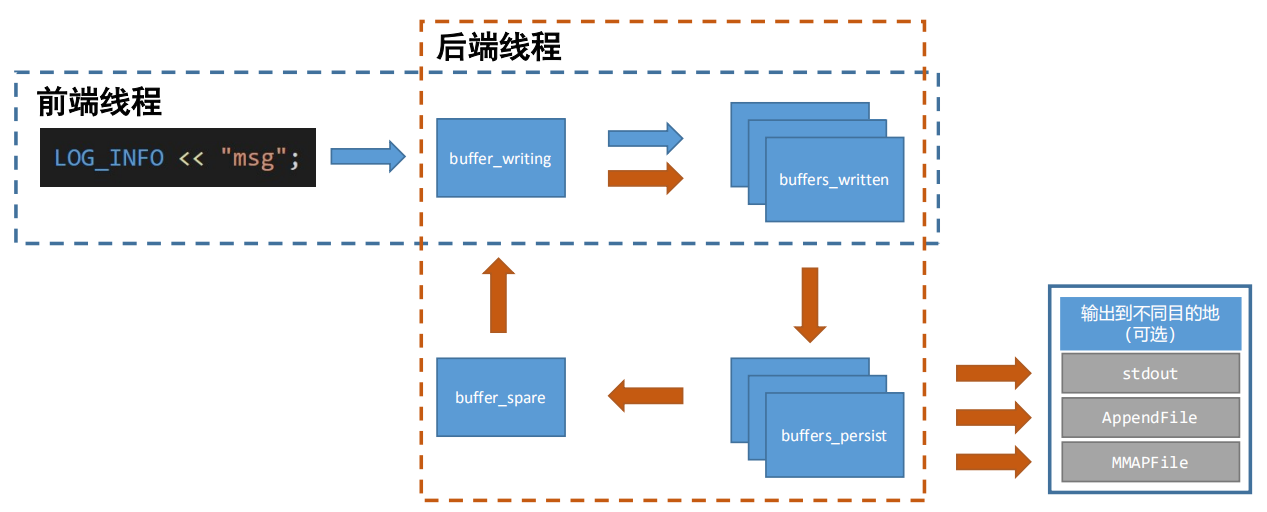
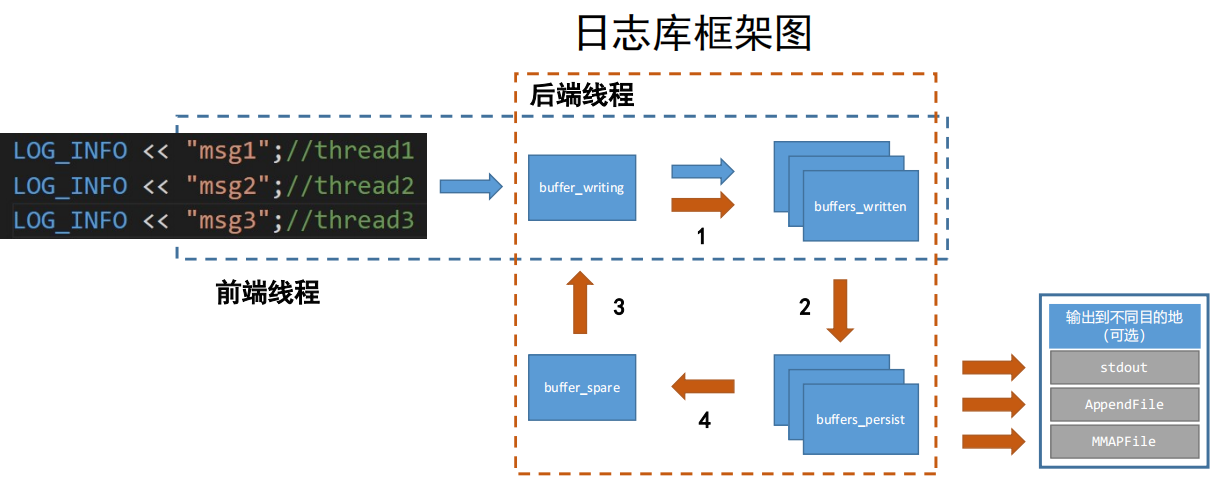
fix README.md

Changed region(s): [[0.0, 0.0309, 0.9984, 0.9897], [0.3432, 0.9588, 0.4992, 0.9897], [0.312, 0.6495, 0.3432, 0.6804]]

diff --git a/README.md b/README.md
@@ -18,9 +18,12 @@ sudo ./build.sh
 ```
 具体可参考`example/`中的测试文件
 
+
+
 ### 执行流程图
 
 <div align=center><img src="/pic/Loggerdescription.png" height=""/> </div>
+<div align=center><img src="/pic/testdemo.png" height=""/> </div>
 
 ### References
 [[1]](https://github.com/chenshuo/muduo)Event-driven network library for multi-threaded Linux server in C++11 
